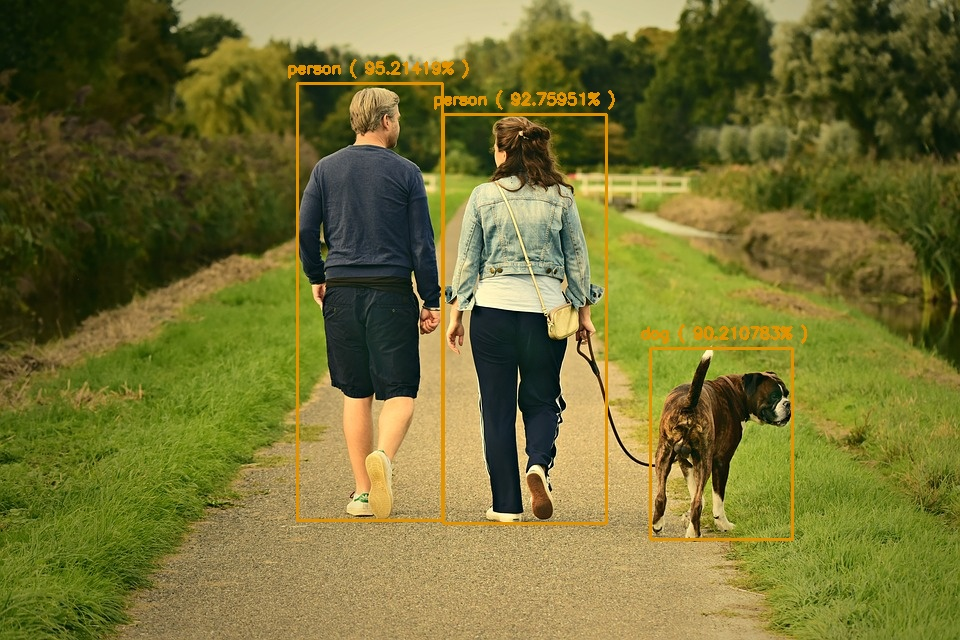
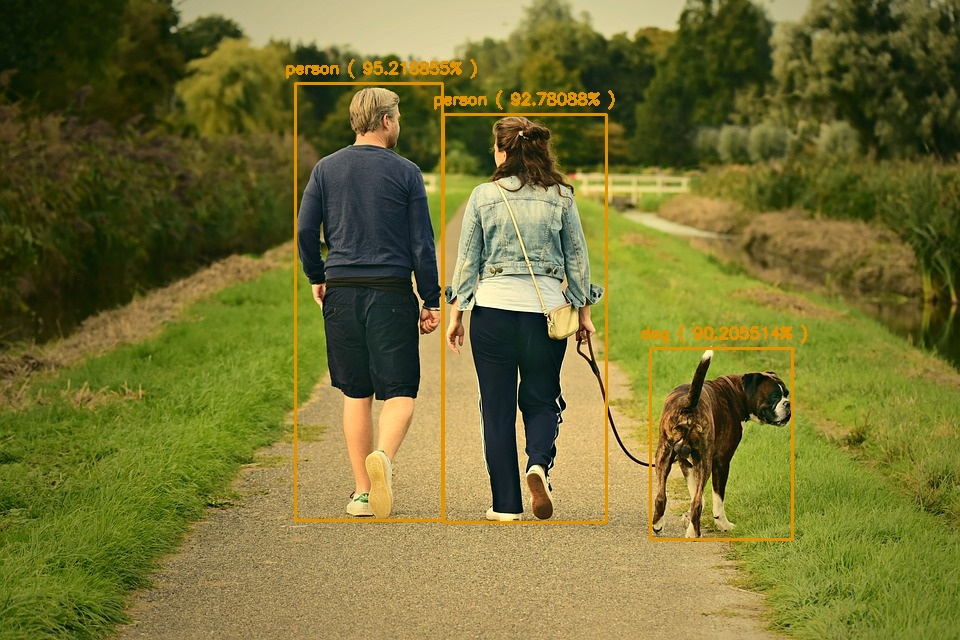
updated readme

diff --git a/examples/object_detection.py b/examples/object_detection.py
@@ -1,0 +1,15 @@
+from deepstack_sdk import Detection,ServerConfig
+
+config = ServerConfig("http://localhost:80")
+detector = Detection(config=config)
+
+detections = detector.detectObject("detection.jpg",output="detection_output.jpg")
+
+for detection in detections:
+    print("Name: {}".format(detection.label))
+    print("Confidence: {}".format(detection.confidence))
+    print("x_min: {}".format(detection.x_min))
+    print("x_max: {}".format(detection.x_max))
+    print("y_min: {}".format(detection.y_min))
+    print("y_max: {}".format(detection.y_max))
+    print("-----------------------")

diff --git a/README.md b/README.md
@@ -4,12 +4,28 @@ Official Python SDK for DeepStack
 ![DevTest](https://github.com/johnolafenwa/DeepStackPython/workflows/DevTest/badge.svg)
 
 # DeepStack
-(DeepStack)[https://deepstack.cc] is an AI server that allows deploying object detection, face detection, face recognition, scene recognition and detection of custom objects on the edge and in production servers. 
+[DeepStack](https://deepstack.cc) is an AI server that allows deploying object detection, face detection, face recognition, scene recognition and detection of custom objects on the edge and in production servers. 
 DeepStack Runs on Docker, Windows, Linux, Mac, Nvidia Jetson and ARM64 devices.
 And it is entirely free and Open Source 
 
 The DeepStack Python SDK makes it easy to perform all of the above awesome AI magic on Images and Videos in few lines of code,
 Just Install DeepStack and the Python SDK and you are good to go!
+
+# Object Detection Sample
+
+![object detection](examples/detection.jpg)
+
+```python
+from deepstack_sdk import ServerConfig, Detection
+
+config = ServerConfig("http://localhost:80")
+detection = Detection(config)
+
+response = detection.detectObject("detection.jpg",output="detection_output.jpg")
+
+```
+
+![object detection output](examples/detection_output.jpg)
 
 # Installation Instructions
 
@@ -57,6 +73,31 @@ Note that GPU acceleration is not available for Mac at the moment
 # Examples
 
 ## Object Detection
+
+## Start DeepStack
+To use the Object Detection API, start DeepStack with the command appropriate for your platform as below.
+
+### On Windows Native Version CPU and GPU
+
+```deepstack --VISION-DETECTION True --PORT 80```
+
+### On Docker CPU Version
+
+```sudo docker run -e VISION-DETECTION=True -v localstorage:/datastore -p 80:5000 deepquestai/deepstack:cpu-2021.02.1```
+
+### On Docker GPU Version
+
+```sudo docker run --gpus all -e VISION-DETECTION=True -v localstorage:/datastore -p 80:5000 deepquestai/deepstack:gpu-2021.02.1```
+
+### On Nvidia Jetson
+
+```sudo docker run --runtime nvidia -e VISION-DETECTION=True -v localstorage:/datastore -p 80:5000 deepquestai/deepstack:jetpack-2021.02.1```
+
+### On ARM64 Devices
+
+```sudo docker run -e VISION-DETECTION=True -v localstorage:/datastore -p 80:5000 deepquestai/deepstack:arm64-2021.02.1```
+
+## Object Detection in Images
 ![object detection](examples/detection.jpg)
 
 ```python
@@ -73,6 +114,30 @@ for obj in response:
 ```
 
 ![object detection output](examples/detection_output.jpg)
+
+<pre>
+Name: dog
+Confidence: 0.90205514
+x_min: 650
+x_max: 792
+y_min: 348
+y_max: 539
+-----------------------
+Name: person
+Confidence: 0.9278088
+x_min: 443
+x_max: 606
+y_min: 114
+y_max: 522
+-----------------------
+Name: person
+Confidence: 0.95218855
+x_min: 295
+x_max: 442
+y_min: 83
+y_max: 520
+-----------------------
+</pre>
 
 
 
